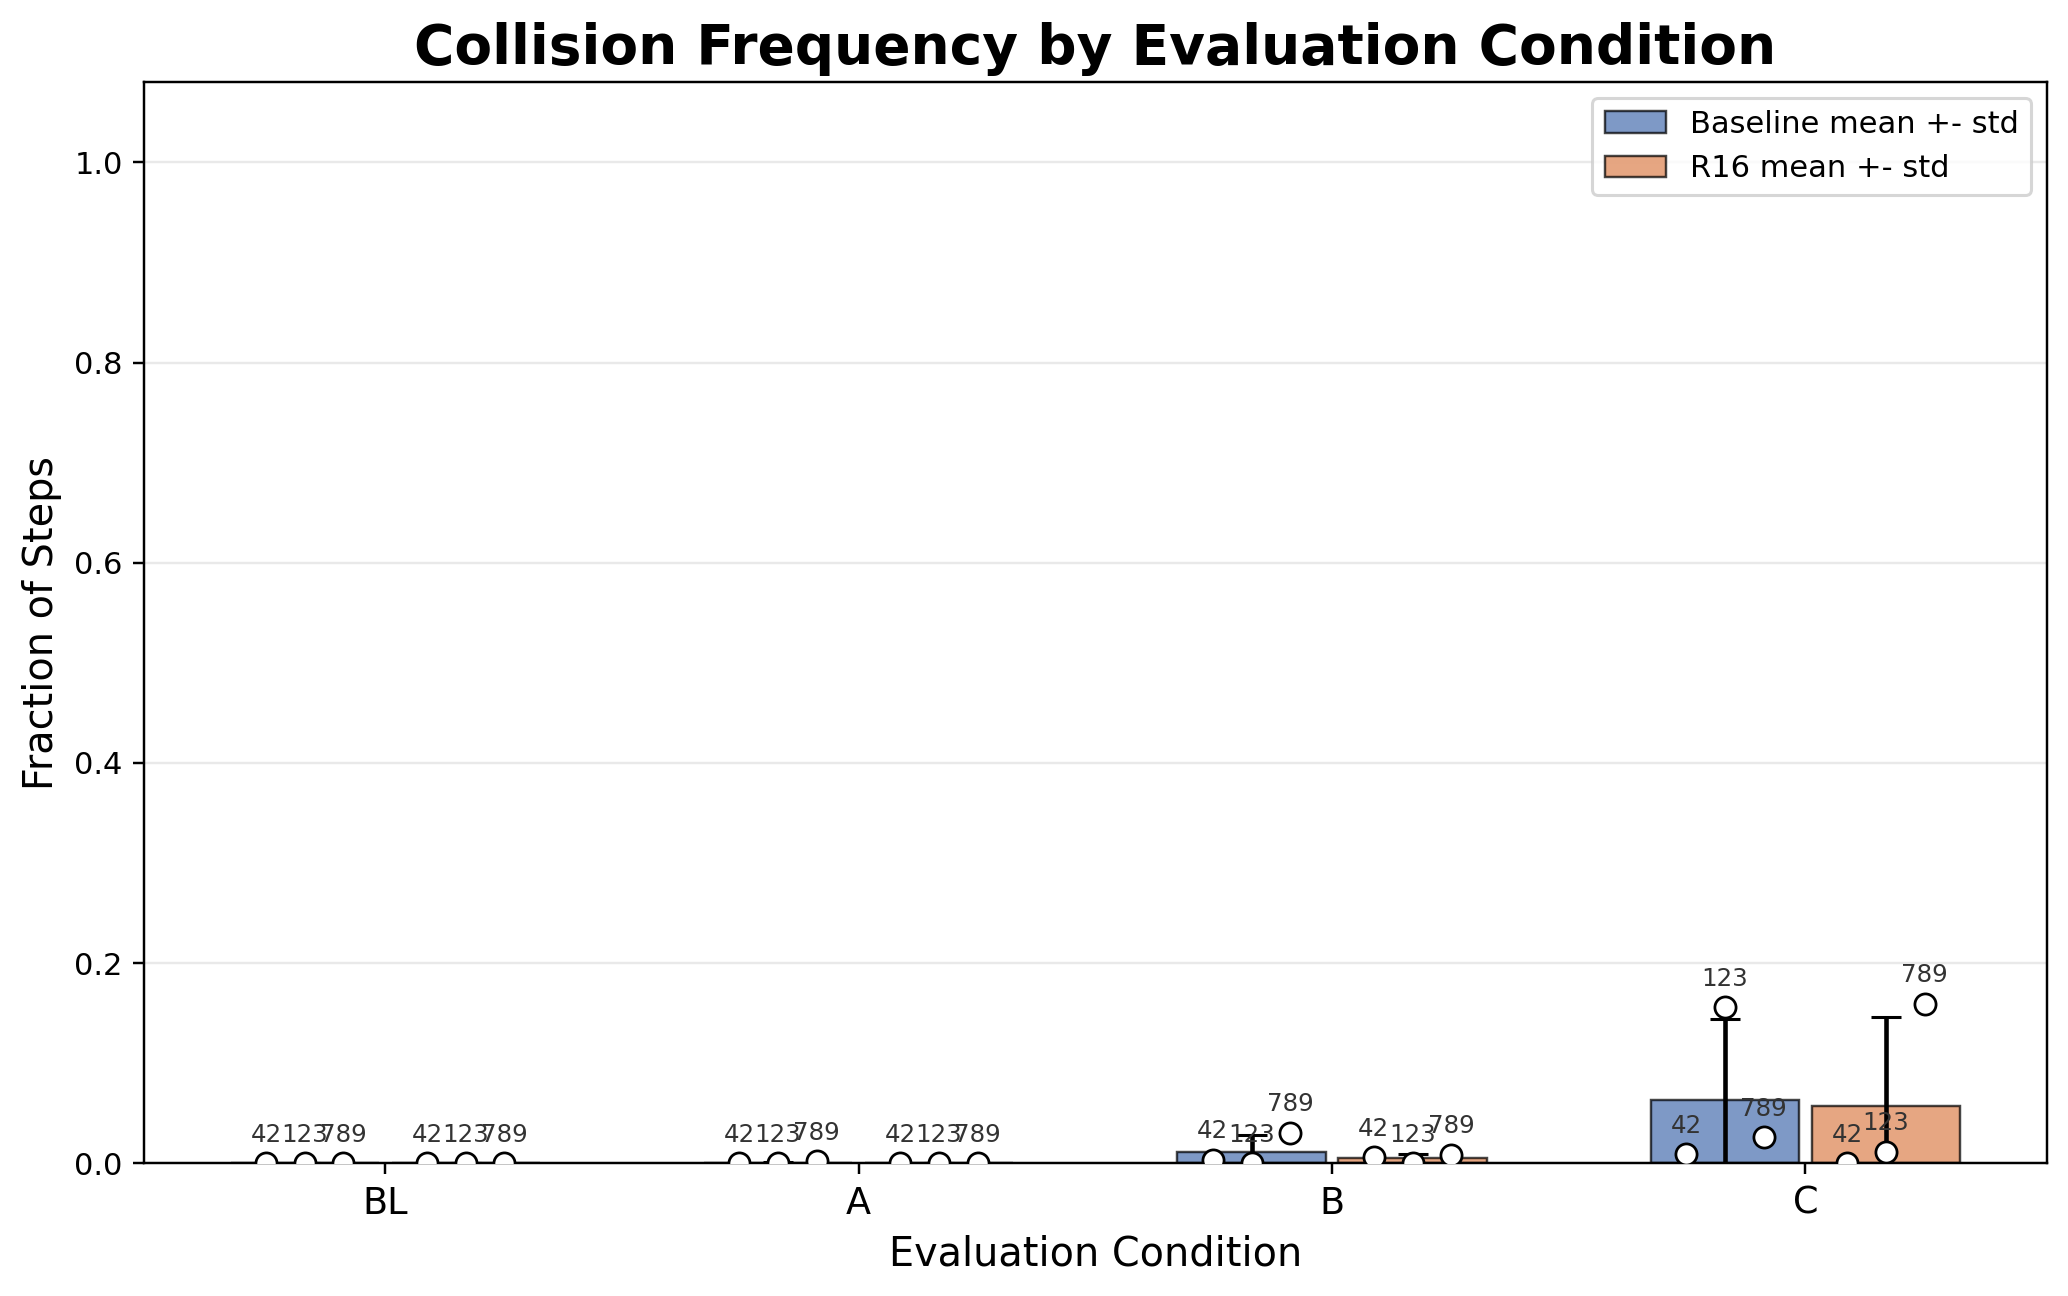
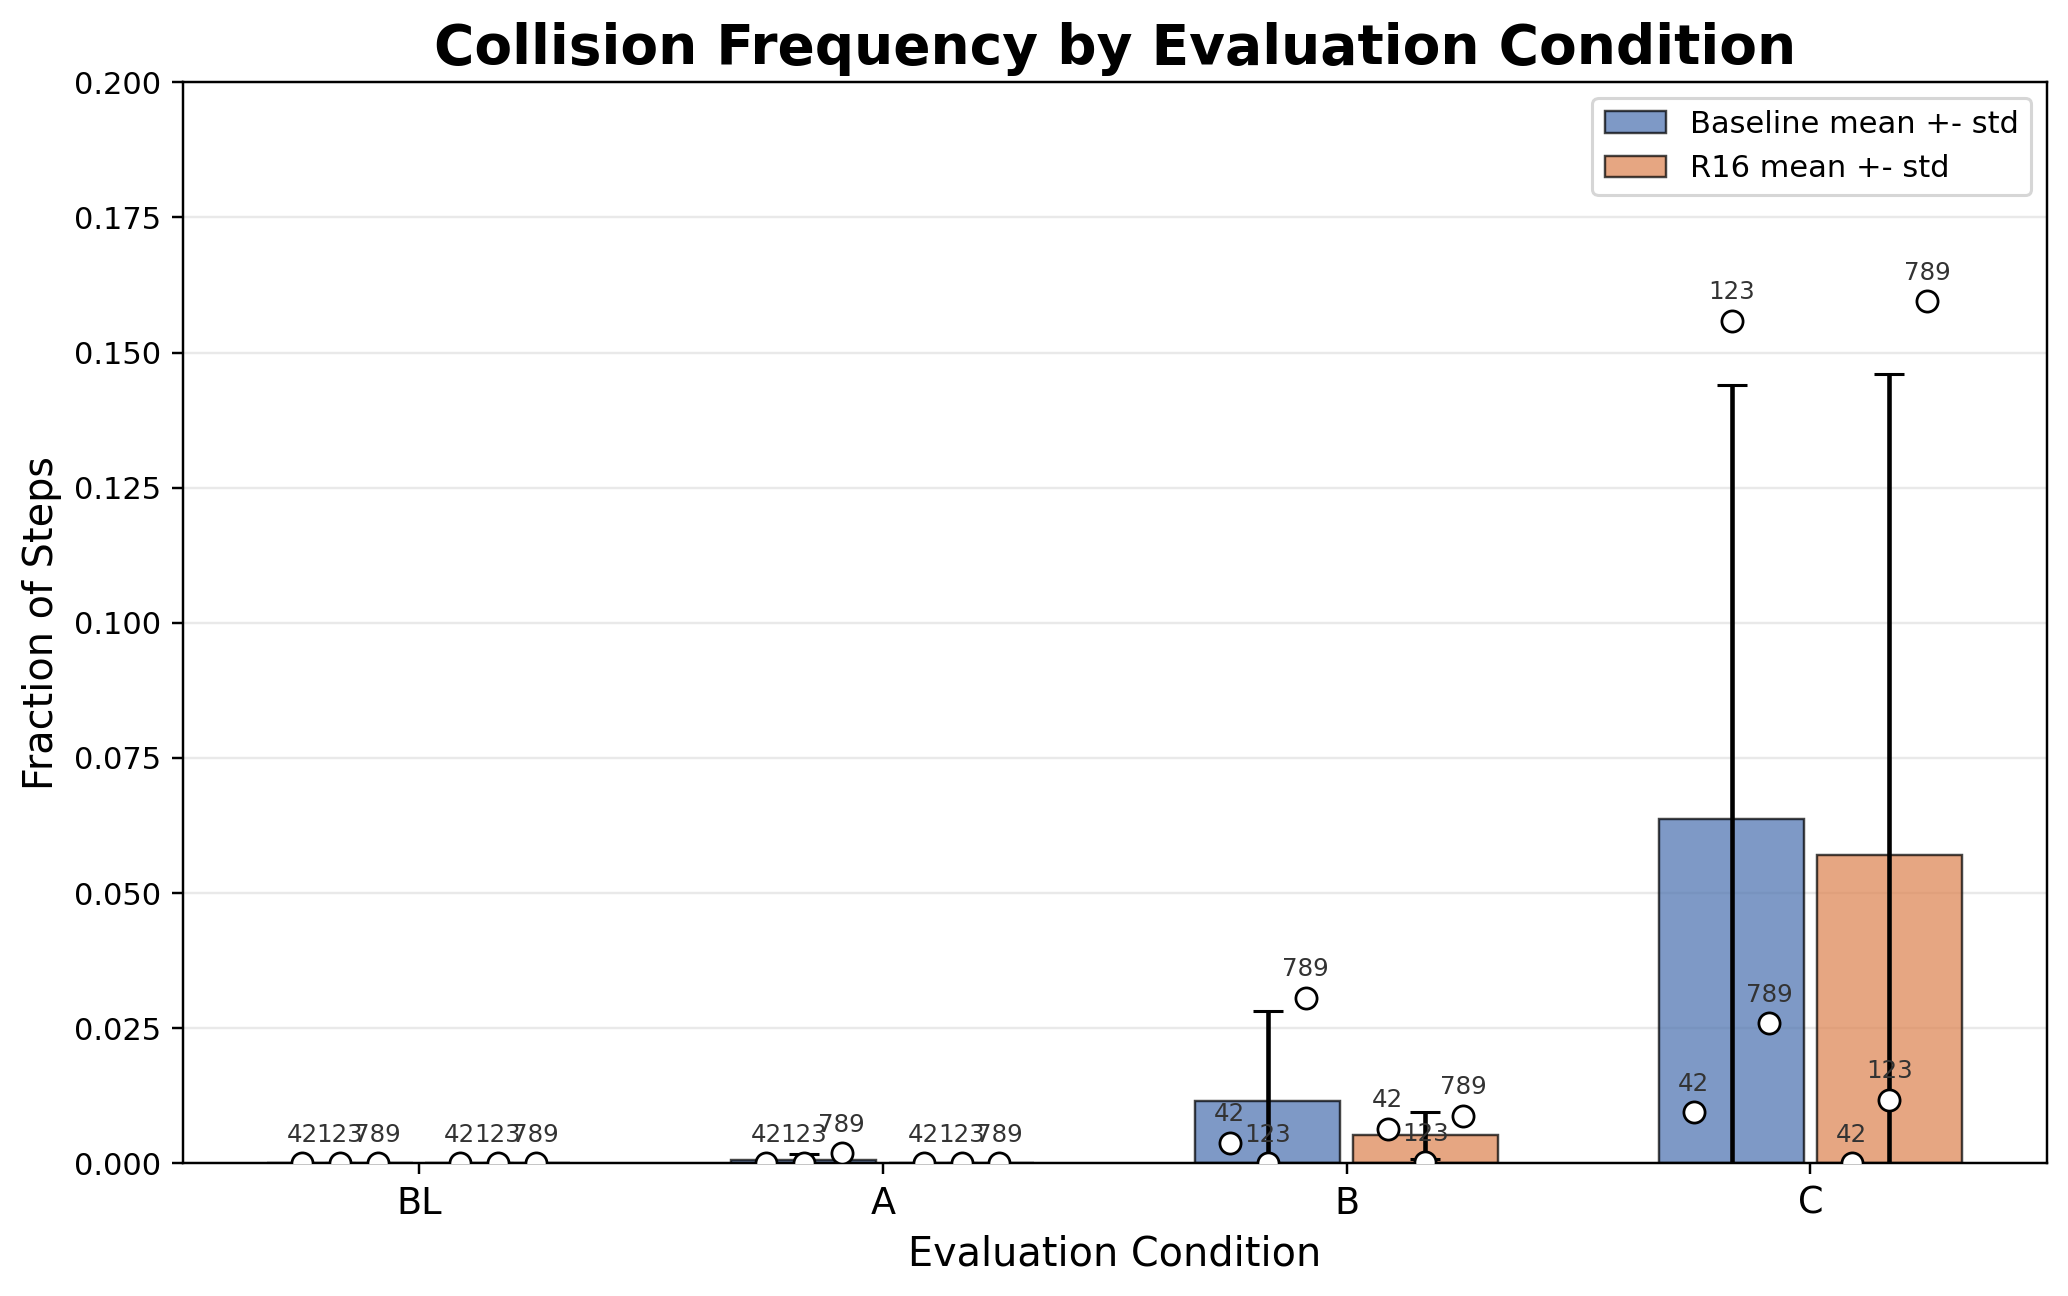
Improve evaluation plot scaling

diff --git a/scripts/reinforcement_learning/rl_games/evaluate_generalization.py b/scripts/reinforcement_learning/rl_games/evaluate_generalization.py
@@ -261,14 +261,14 @@ METRIC_SPECS = [
         "key": "episode_length",
         "title": "Episode Length",
         "ylabel": "Steps",
-        "ylim": (0.0, None),
+        "ylim": (245.0, 252.0),
         "higher_is_better": False,
     },
     {
         "key": "collision_frequency",
         "title": "Collision Frequency",
         "ylabel": "Fraction of Steps",
-        "ylim": (0.0, 1.0),
+        "ylim": (0.0, 0.2),
         "higher_is_better": False,
     },
     {
@@ -1032,6 +1032,8 @@ def metric_spec_for(key: str) -> dict:
 
 def _apply_metric_ylim(ax, values: list[float], spec: dict) -> None:
     y_min, y_max = spec.get("ylim", (None, None))
+    fixed_min = y_min is not None
+    fixed_max = y_max is not None
     finite = [v for v in values if math.isfinite(float(v))]
     if y_min is None and finite:
         y_min = min(finite)
@@ -1042,8 +1044,11 @@ def _apply_metric_ylim(ax, values: list[float], spec: dict) -> None:
     if y_min is not None and y_max is not None and math.isfinite(y_min) and math.isfinite(y_max):
         if y_max <= y_min:
             y_max = y_min + 1.0
-        margin = 0.08 * (y_max - y_min)
-        ax.set_ylim(y_min, y_max + margin)
+        if fixed_min and fixed_max:
+            ax.set_ylim(y_min, y_max)
+        else:
+            margin = 0.08 * (y_max - y_min)
+            ax.set_ylim(y_min, y_max + margin)
     elif y_min is not None:
         ax.set_ylim(bottom=y_min)
     elif y_max is not None:
